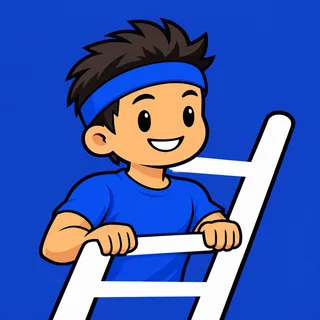
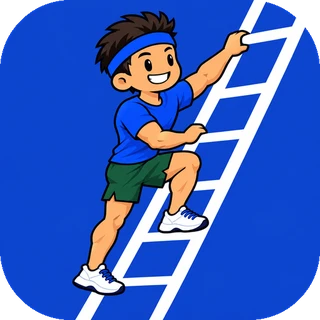
Brand and clearer exercise pictures
- New app icon and logo banner (Rung climbing the ladder)
- 35 start-to-finish pictures for pull-ups, dips, calves, leg raises, Nordics, rows and stretches
- Wide pictures show full width on the exercise card
- Two female coach designs for a future coach choice

Claude-Session: https://claude.ai/code/session_01XXdKaZh7Ktmj6nWMpEd4DP

diff --git a/index.html b/index.html
@@ -3,6 +3,8 @@
 <head>
 <meta charset="utf-8">
 <meta name="viewport" content="width=device-width,initial-scale=1,viewport-fit=cover">
+<link rel="icon" href="img/icon.webp">
+<link rel="apple-touch-icon" href="assets/brand/icon-512.png">
 <style>:root{color-scheme:light;padding-top:env(safe-area-inset-top,0px);padding-bottom:env(safe-area-inset-bottom,0px)}body{margin:0;font:14px system-ui}img{max-width:100%}[hidden]{display:none!important}</style>
 </head>
 <body>
@@ -245,6 +247,7 @@ body.in-setup header.top .date{display:none}
 .setup{display:flex;flex-direction:column;gap:10px;padding-bottom:90px}
 body.in-setup .sticky-actions{position:fixed;left:0;right:0;bottom:0;padding:12px max(16px,env(safe-area-inset-right,0px)) calc(12px + env(safe-area-inset-bottom,0px)) max(16px,env(safe-area-inset-left,0px));margin:0}
 .setup-hero{width:120px;height:120px;align-self:center}
+.setup-brand{width:100%;height:auto;border-radius:16px;max-width:100%}
 .togs{display:flex;flex-wrap:wrap;gap:8px}
 .togs.col{flex-direction:column}
 .tog{background:var(--surface);text-align:left}
@@ -254,6 +257,9 @@ body.in-setup .sticky-actions{position:fixed;left:0;right:0;bottom:0;padding:12p
 .timer .tlabel{white-space:nowrap;font-size:13px;font-weight:700;text-transform:uppercase;letter-spacing:.06em;opacity:.85}
 .timer.reached{background:var(--good);color:#fff}
 .timer button{min-height:44px!important;min-width:44px}
+.pic-wide{width:100%;height:auto;aspect-ratio:3/2;border-radius:12px;background:#EEF2F8;display:block;max-width:100%}
+.move.nopic .move-text{width:100%}
+img.wthumb{width:78px!important;flex:0 0 78px!important;object-fit:cover!important}
 .toast{position:fixed;left:50%;transform:translateX(-50%);bottom:calc(76px + env(safe-area-inset-bottom,0px));display:flex;align-items:center;gap:14px;width:max-content;max-width:calc(100% - 32px);box-sizing:border-box;border-radius:16px!important;background:var(--toast-bg);color:var(--toast-fg);padding:10px 16px;border-radius:999px;font-weight:600;font-size:14px;z-index:9;box-shadow:0 6px 20px rgba(0,0,0,.25)}
 @media (prefers-reduced-motion:no-preference){.card{transition:border-color .2s}}
 </style>
@@ -440,7 +446,10 @@ function lvlOf(t){
   const k=state.levels[t.id]; const i=k?t.steps.findIndex((_,j)=>keyOf(t,j)===k):-1;
   return i<0 ? defaultIdx(t) : i;
 }
-const imgOf = (t,i) => t.custom ? "img/rung.webp" : t.img ? `img/${t.img[i]}.webp` : `img/${t.id}-${i}.webp`;
+// Start → finish pictures for moves where one pose doesn't show the movement
+const WIDE = {"push:diamond-push-up": "w/push-diamond-push-up", "push:archer-push-up": "w/push-archer-push-up", "dip:bench-dip-knees-bent": "w/dip-bench-dip-knees-bent", "dip:bench-dip-legs-straight": "w/dip-bench-dip-legs-straight", "dip:negative-dip": "w/dip-negative-dip", "dip:parallel-bar-dip": "w/dip-parallel-bar-dip", "dip:straight-bar-dip": "w/dip-straight-bar-dip", "pull:scapular-pull": "w/pull-scapular-pull", "pull:jumping-pull-up": "w/pull-jumping-pull-up", "pull:negative-pull-up": "w/pull-negative-pull-up", "pull:pull-up": "w/pull-pull-up", "pull:archer-pull-up": "w/pull-archer-pull-up", "pull:l-sit-pull-up": "w/pull-l-sit-pull-up", "row:doorway-row": "w/row-doorway-row", "row:bent-knee-table-row": "w/row-bent-knee-table-row", "core:lying-leg-raise": "w/core-lying-leg-raise", "core:hanging-knee-raise": "w/core-hanging-knee-raise", "core:hanging-leg-raise": "w/core-hanging-leg-raise", "hinge:glute-bridge": "w/hinge-glute-bridge", "hinge:nordic-curl-negative": "w/hinge-nordic-curl-negative", "hinge:nordic-curl": "w/hinge-nordic-curl", "frog:frog-stretch-rocks": "w/frog-frog-stretch-rocks", "hams:contract-relax-hamstring-stretch": "w/hams-contract-relax-hamstring-stretch", "openbook:open-book-stretch": "w/openbook-open-book-stretch", "kneewall:knee-to-wall-ankle-stretch": "w/kneewall-knee-to-wall-ankle-stretch", "ninety:90-90-hip-switches": "w/ninety-90-90-hip-switches", "swing:kettlebell-swing": "w/swing-kettlebell-swing", "ankle:slow-step-calf-raise": "w/ankle-slow-step-calf-raise", "ankle:split-stance-calf-raise": "w/ankle-split-stance-calf-raise", "ankle:single-leg-calf-raise-5s-top-hold": "w/ankle-single-leg-calf-raise-5s-top-hold", "ankle:single-leg-calf-eccentric": "w/ankle-single-leg-calf-eccentric", "ankle:rope-less-jump-rope": "w/ankle-rope-less-jump-rope", "ankle:single-leg-pogo-hops": "w/ankle-single-leg-pogo-hops", "shin:tibialis-raise": "w/shin-tibialis-raise", "push:push-up": "w/push-push-up"};
+const isWide = (t,i) => !t.custom && !!WIDE[keyOf(t,i)];
+const imgOf = (t,i) => t.custom ? "img/rung.webp" : isWide(t,i) ? `img/${WIDE[keyOf(t,i)]}.webp` : t.img ? `img/${t.img[i]}.webp` : `img/${t.id}-${i}.webp`;
 function spec(t, lvl=lvlOf(t)){ const st=t.steps[lvl].slice(); const n=state.prefs.sets[t.id]; if(n) st[1]=n; return st; }
 const groupOf = t => t.custom ? "Custom" : (t.group || "Strength");
 let filter = "All"; try{ filter = localStorage.getItem("bwl-filter") || "All"; }catch(e){}
@@ -741,7 +750,8 @@ function fullCard(t, first){
   return `<section class="card${first?" first":""}" id="card-${t.id}">
     <div class="track-head"><div><div class="label">${first?`<span class="next">Up next</span> · `:""}${esc(t.name)}${t.steps.length<2?"":` · step ${lvl+1}/${t.steps.length}`}</div>${t.steps.length<2?"":rungs(t,lvl)}</div>
       <span class="target">${targetText(st)}</span>${first?"":`<button class="icon" data-act="close" data-t="${t.id}" aria-label="Close ${esc(t.name)}">✕</button>`}</div>
-    <div class="move"><img class="pic" src="${imgOf(t,lvl)}" alt="${esc(st[0])} shown by Rung" loading="lazy" width="96" height="96">
+    ${isWide(t,lvl)?`<img class="pic-wide" src="${imgOf(t,lvl)}" alt="${esc(st[0])}: start and finish positions, shown by Rung" loading="lazy" width="900" height="600">`:""}
+    <div class="move${isWide(t,lvl)?" nopic":""}">${isWide(t,lvl)?"":`<img class="pic" src="${imgOf(t,lvl)}" alt="${esc(st[0])} shown by Rung" loading="lazy" width="96" height="96">`}
       <div class="move-text"><div class="step-name" tabindex="-1">${esc(st[0])}</div><p class="cue">${esc(st[5])}${st[6]!=="None"?` <span class="gear">Needs: ${esc(st[6])}</span>`:""}</p>
       <a class="video" href="${ytLink(st[0])}" target="_blank" rel="noopener">▶ Watch how</a></div></div>
     ${timed && hn<st[1] ? `<button class="holdbtn" data-act="hold" data-t="${t.id}">▶ Start hold · set ${hn+1} of ${st[1]} · goal ${g[hn]}s</button>` : ""}
@@ -761,7 +771,7 @@ function miniRow(t, kind){
     : last ? `Last done ${ago(last.ts)} · about ${Math.round(minutesFor(t))} min` : `New · about ${Math.round(minutesFor(t))} min`;
   const same = slug(st[0])===slug(t.name);
   return `<button class="mini${kind==="done"?" done-row":""}" data-act="open" data-t="${t.id}">
-    <img src="${imgOf(t,lvl)}" alt="" width="52" height="52" loading="lazy">
+    <img class="${isWide(t,lvl)?"wthumb":""}" src="${imgOf(t,lvl)}" alt="" width="52" height="52" loading="lazy">
     <span class="mini-t"><b>${esc(st[0])}${focusOf(t.id)==="more"?` <span class="star" title="More often">★</span>`:""}</b><span>${same?"":esc(t.name)+" · "}${targetText(st)}</span><span class="${kind==="done"?"ok":""}">${sub}</span></span>
     <span class="chev">${kind==="done"?"Again":"Open"}</span></button>`;
 }
@@ -869,11 +879,11 @@ function viewLadders(){
     html+=ts.map(t=>{
       const lvl=lvlOf(t), st=spec(t,lvl), open=expandedEx.has(t.id);
       const words=esc([t.name,g,...t.steps.map(x=>x[0])].join(" ").toLowerCase());
-      const row=`<button class="exrow" data-ui="ex" data-t="${t.id}" aria-expanded="${open}"${open?"":` data-sr="${words}" data-g="${g}"`}><img src="${imgOf(t,lvl)}" alt="" width="48" height="48" loading="lazy">
+      const row=`<button class="exrow" data-ui="ex" data-t="${t.id}" aria-expanded="${open}"${open?"":` data-sr="${words}" data-g="${g}"`}><img class="${isWide(t,lvl)?"wthumb":""}" src="${imgOf(t,lvl)}" alt="" width="48" height="48" loading="lazy">
         <span class="mini-t"><b>${esc(t.name)}${focusOf(t.id)==="more"?` <span class="star">★</span>`:focusOf(t.id)==="less"?` <span class="muted">· less often</span>`:""}</b><span>${t.custom?"Your own":`Step ${lvl+1}/${t.steps.length}`} · ${esc(st[0])}</span></span><span class="chev">${open?"▴":"▾"}</span></button>`;
       if(!open) return row;
       const list=t.custom ? "" : `<ol class="ladder">${t.steps.map((s2,i)=>`
-        <li class="${i===lvl?"cur":i<lvl?"past":""}"><span class="n">${i<lvl?"✓":i+1}</span><img class="thumb" src="${imgOf(t,i)}" alt="" loading="lazy" width="48" height="48">
+        <li class="${i===lvl?"cur":i<lvl?"past":""}"><span class="n">${i<lvl?"✓":i+1}</span><img class="thumb${isWide(t,i)?" wthumb":""}" src="${imgOf(t,i)}" alt="" loading="lazy" width="48" height="48">
         <div class="t"><b>${esc(s2[0])}</b><span>${targetText(s2)}${s2[6]!=="None"?" · "+esc(s2[6]):""}</span><a class="video sm" href="${ytLink(s2[0])}" target="_blank" rel="noopener">▶ Watch how</a></div>
         ${i===lvl?`<span class="label" style="color:var(--accent)">Now</span>`:`<button data-act="set" data-t="${t.id}" data-l="${i}">Start here</button>`}</li>`).join("")}</ol>`;
       return `<section class="card exopen" data-sr="${words}" data-g="${g}">${row}${controls(t)}${list}</section>`;
@@ -958,7 +968,7 @@ function viewSetup(){
     : {groups:new Set(["Strength","Tendon","Mobility","Stretch"]), gear:new Set(), level:"some"});
   const tog=(kind,val,label)=>`<button class="tog" data-ui="stog" data-kind="${kind}" data-v="${val}" aria-pressed="${kind==="level"?d.level===val:d[kind].has(val)}">${label}</button>`;
   return `<div class="setup">
-    <img class="setup-hero" src="img/cheer.webp" alt="Rung, the app's coach, cheering">
+    <img class="setup-brand" src="img/brand.webp" alt="Bodyweight Ladder. Climb one rung at a time." width="1200" height="675">
     <h2>Let's set you up</h2><p class="cue">Three quick questions. You can change all of this later.</p>
     <div class="label sect">1. What do you want to train?</div>
     <div class="togs">${tog("groups","Strength","Strength")}${tog("groups","Tendon","Tendons &amp; joints")}${tog("groups","Mobility","Mobility")}${tog("groups","Stretch","Stretching")}${tog("groups","Weights","Carries &amp; swings")}</div>

diff --git a/README.md b/README.md
@@ -1,3 +1,5 @@
+![Bodyweight Ladder](assets/brand/banner.png)
+
 # Bodyweight Ladder
 
 A phone-first training app for bodyweight strength, tendon health, mobility and stretching. Every exercise is a **ladder** of steps from easy to hard. Hit the top of the rep range on every set and you move up a rung. Rung, the mascot, shows each step.
@@ -26,7 +28,10 @@ The tests run the real page in jsdom: data repair of old saves, Undo, two-device
 
 ## Files
 - `index.html`: the whole app (HTML, CSS, JS)
-- `img/`: Rung illustrations for every step (`<track>-<step>.webp`), app icon and cheer image
+- `img/`: Rung illustrations for every step (`<track>-<step>.webp`), app icon, logo banner and cheer image
+- `img/w/`: start → finish two-pose pictures for moves where one pose doesn't show the movement
+- `assets/brand/`: app icon (512px) and logo banner
+- `assets/coaches/`: two designs for a second, female coach (not used in the app yet)
 - `assets/mascot/rung-reference.png`: the reference image used to keep Rung consistent
 - `tests/`: test files and runner
 
